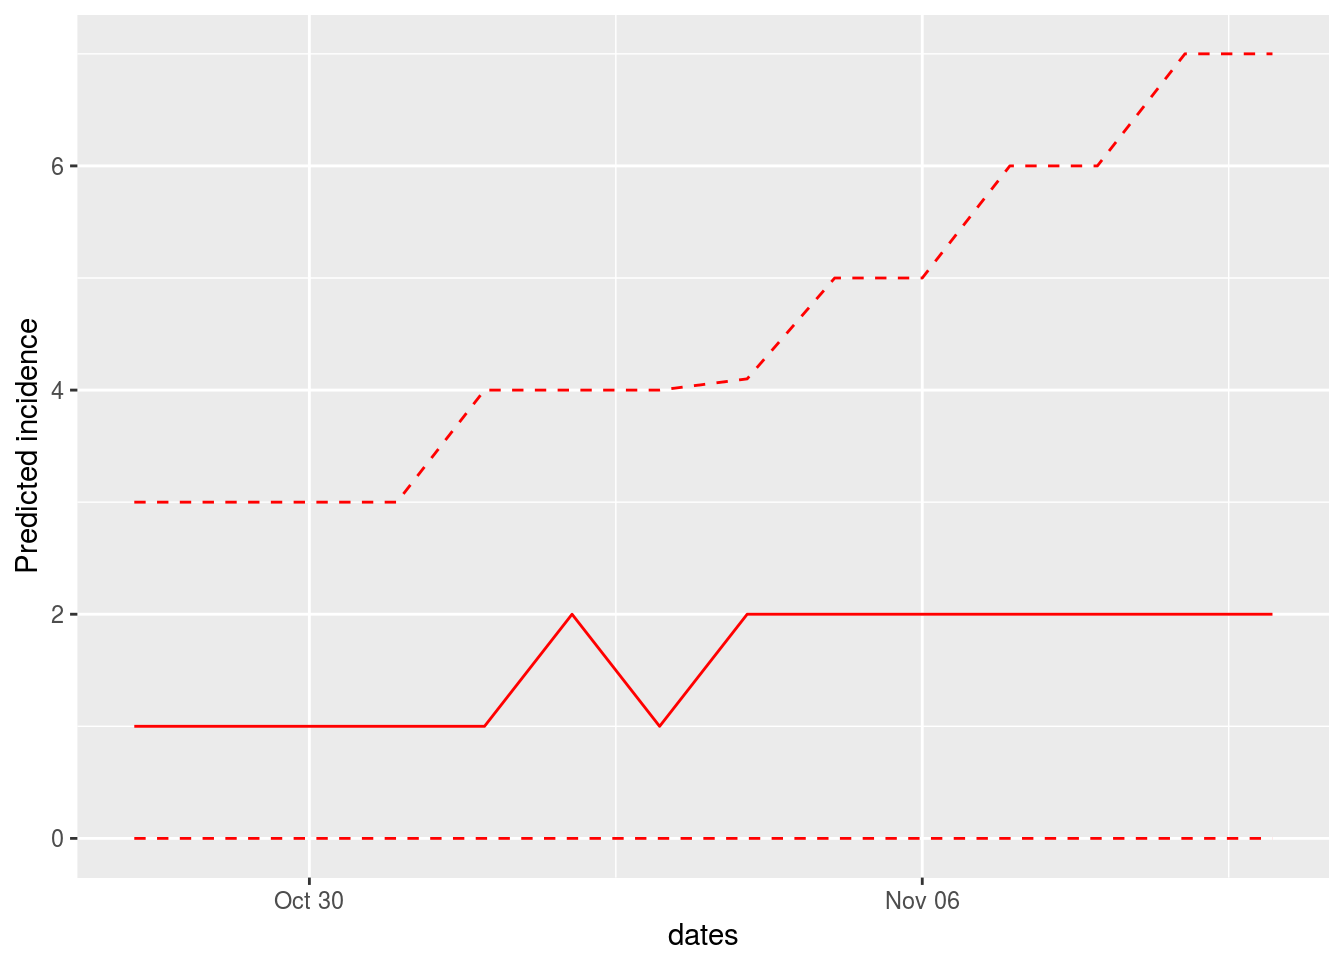
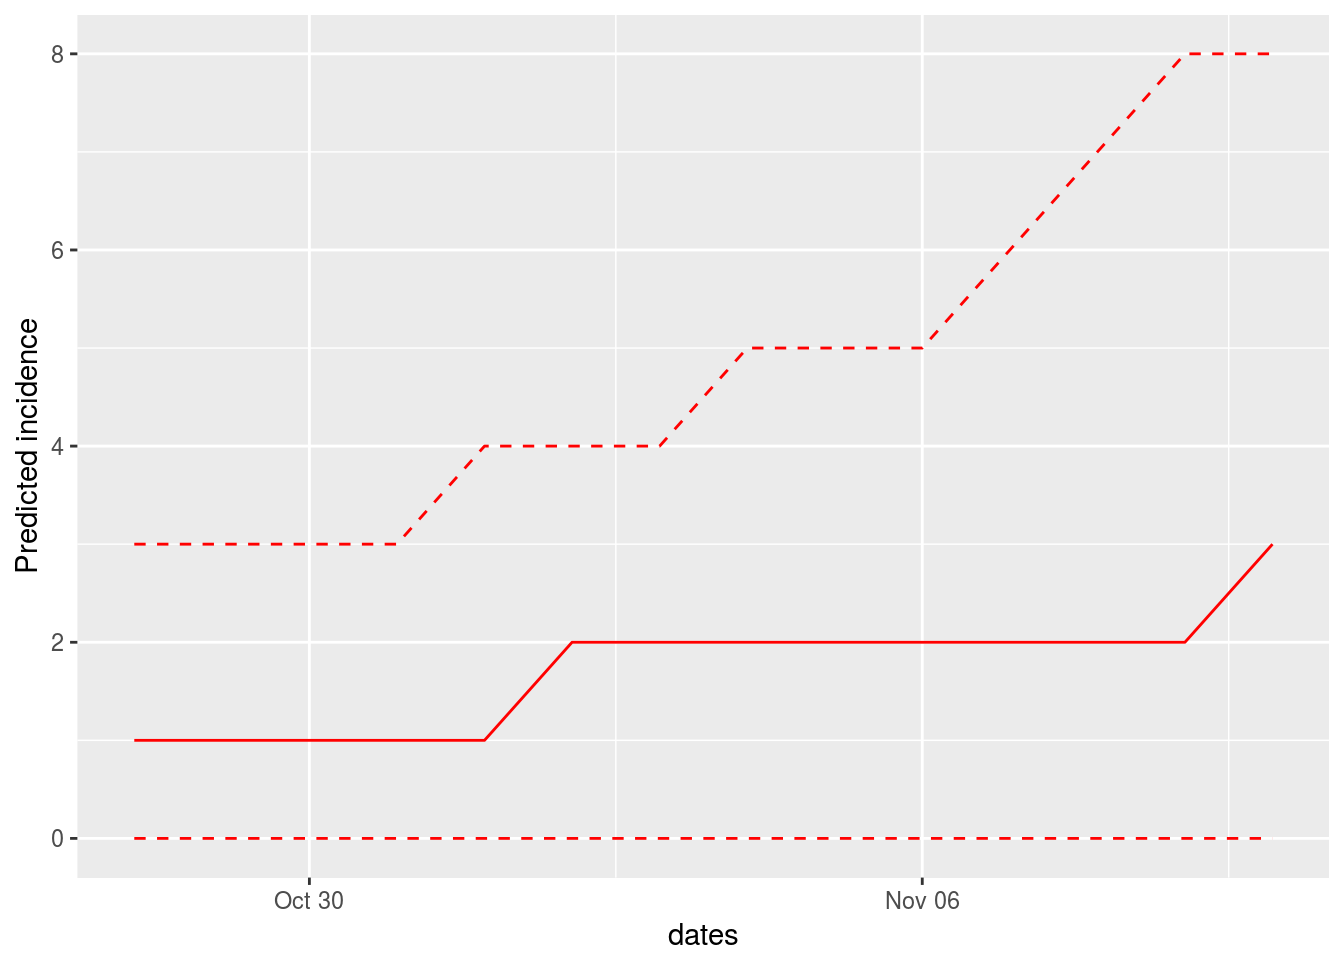
putting new practical first

diff --git a/categories/practicals/index.html b/categories/practicals/index.html
@@ -147,22 +147,20 @@
       <div class="row">
         <div class="col-md-12">
           <div class="row content-date">
-            April 09
+            April 15
           </div>
           <div class="row content-title">
-            <h2> <a href="https://reconlearn.netlify.com/post/simulated-evd-early/ "> Ebola simulation part 1: early outbreak assessment </a> </h2>
+            <h2> <a href="https://reconlearn.netlify.com/post/practical-outbreakend/ "> Is this outbreak over? </a> </h2>
           </div>
           <div class="row content-summary">
-            <p> This practical simulates the early assessment and reconstruction of an Ebola Virus Disease (EVD) outbreak. It introduces various aspects of analysis of the early stage of an outbreak, including contact tracing data, epicurves, growth rate estimation from log-linear models, and more refined estimates of transmissibility. A follow-up practical will provide an introduction to transmission chain reconstruction using outbreaker2.
-
-A novel EVD outbreak in Ankh, Republic of Morporkia A new EVD outbreak has been notified in the small city of Ankh, located in the Northern, rural district of the Republic of Morporkia. </p>
-            <a class="more-link" href="https://reconlearn.netlify.com/post/simulated-evd-early/ "> READ THE POST </a>
+            <p> Motivation At which time point during an outbreak of a person-to-person transmitted disease can one declare the outbreak as having ended? Answering this question can be important in order to calm the population, re-attract tourists, stop export bans or reduce alertness status. The current WHO method for answering the above question is as follows: a period of two times the longest possible incubation time needs to pass without observing additional cases, before the outbreak can be declared as being over. </p>
+            <a class="more-link" href="https://reconlearn.netlify.com/post/practical-outbreakend/ "> READ THE POST </a>
           </div>
         </div>
       </div>
     </div>
     
-    <div class="col-md-6 content-image" style="background-image: url(/img/highres/ebola.jpg)">
+    <div class="col-md-6 content-image" style="background-image: url(/img/highres/theendisnear.png)">
     </div>
     
   </div>
@@ -171,7 +169,7 @@ A novel EVD outbreak in Ankh, Republic of Morporkia A new EVD outbreak has been 
 
   <div class="row content">
     
-    <div class="col-md-6 content-image" style="background-image: url(/img/highres/theendisnear.png)">
+    <div class="col-md-6 content-image" style="background-image: url(/img/highres/ebola.jpg)">
     </div>
     
 
@@ -181,14 +179,16 @@ A novel EVD outbreak in Ankh, Republic of Morporkia A new EVD outbreak has been 
         <div class="row">
           <div class="col-md-12">
             <div class="content-date">
-              March 22
+              April 09
             </div>
             <div class="content-title">
-              <h2> <a href="https://reconlearn.netlify.com/post/practical-outbreakend/ "> Is this outbreak over? </a> </h2>
+              <h2> <a href="https://reconlearn.netlify.com/post/simulated-evd-early/ "> Ebola simulation part 1: early outbreak assessment </a> </h2>
             </div>
             <div class="content-summary">
-              <p> Motivation At which time point during an outbreak of a person-to-person transmitted disease can one declare the outbreak as having ended? Answering this question can be important in order to calm the population, re-attract tourists, stop export bans or reduce alertness status. The current WHO method for answering the above question is as follows: a period of two times the longest possible incubation time needs to pass without observing additional cases, before the outbreak can be declared as being over. </p>
-              <a class="more-link" href="https://reconlearn.netlify.com/post/practical-outbreakend/ "> READ THE POST </a>
+              <p> This practical simulates the early assessment and reconstruction of an Ebola Virus Disease (EVD) outbreak. It introduces various aspects of analysis of the early stage of an outbreak, including contact tracing data, epicurves, growth rate estimation from log-linear models, and more refined estimates of transmissibility. A follow-up practical will provide an introduction to transmission chain reconstruction using outbreaker2.
+
+A novel EVD outbreak in Ankh, Republic of Morporkia A new EVD outbreak has been notified in the small city of Ankh, located in the Northern, rural district of the Republic of Morporkia. </p>
+              <a class="more-link" href="https://reconlearn.netlify.com/post/simulated-evd-early/ "> READ THE POST </a>
             </div>
           </div>
         </div>

diff --git a/tags/epicurve/index.html b/tags/epicurve/index.html
@@ -140,22 +140,20 @@
       <div class="row">
         <div class="col-md-12">
           <div class="row content-date">
-            April 09
+            April 15
           </div>
           <div class="row content-title">
-            <h2> <a href="https://reconlearn.netlify.com/post/simulated-evd-early/ "> Ebola simulation part 1: early outbreak assessment </a> </h2>
+            <h2> <a href="https://reconlearn.netlify.com/post/practical-outbreakend/ "> Is this outbreak over? </a> </h2>
           </div>
           <div class="row content-summary">
-            <p> This practical simulates the early assessment and reconstruction of an Ebola Virus Disease (EVD) outbreak. It introduces various aspects of analysis of the early stage of an outbreak, including contact tracing data, epicurves, growth rate estimation from log-linear models, and more refined estimates of transmissibility. A follow-up practical will provide an introduction to transmission chain reconstruction using outbreaker2.
-
-A novel EVD outbreak in Ankh, Republic of Morporkia A new EVD outbreak has been notified in the small city of Ankh, located in the Northern, rural district of the Republic of Morporkia. </p>
-            <a class="more-link" href="https://reconlearn.netlify.com/post/simulated-evd-early/ "> READ THE POST </a>
+            <p> Motivation At which time point during an outbreak of a person-to-person transmitted disease can one declare the outbreak as having ended? Answering this question can be important in order to calm the population, re-attract tourists, stop export bans or reduce alertness status. The current WHO method for answering the above question is as follows: a period of two times the longest possible incubation time needs to pass without observing additional cases, before the outbreak can be declared as being over. </p>
+            <a class="more-link" href="https://reconlearn.netlify.com/post/practical-outbreakend/ "> READ THE POST </a>
           </div>
         </div>
       </div>
     </div>
     
-    <div class="col-md-6 content-image" style="background-image: url(/img/highres/ebola.jpg)">
+    <div class="col-md-6 content-image" style="background-image: url(/img/highres/theendisnear.png)">
     </div>
     
   </div>
@@ -164,7 +162,7 @@ A novel EVD outbreak in Ankh, Republic of Morporkia A new EVD outbreak has been 
 
   <div class="row content">
     
-    <div class="col-md-6 content-image" style="background-image: url(/img/highres/theendisnear.png)">
+    <div class="col-md-6 content-image" style="background-image: url(/img/highres/ebola.jpg)">
     </div>
     
 
@@ -174,14 +172,16 @@ A novel EVD outbreak in Ankh, Republic of Morporkia A new EVD outbreak has been 
         <div class="row">
           <div class="col-md-12">
             <div class="content-date">
-              March 22
+              April 09
             </div>
             <div class="content-title">
-              <h2> <a href="https://reconlearn.netlify.com/post/practical-outbreakend/ "> Is this outbreak over? </a> </h2>
+              <h2> <a href="https://reconlearn.netlify.com/post/simulated-evd-early/ "> Ebola simulation part 1: early outbreak assessment </a> </h2>
             </div>
             <div class="content-summary">
-              <p> Motivation At which time point during an outbreak of a person-to-person transmitted disease can one declare the outbreak as having ended? Answering this question can be important in order to calm the population, re-attract tourists, stop export bans or reduce alertness status. The current WHO method for answering the above question is as follows: a period of two times the longest possible incubation time needs to pass without observing additional cases, before the outbreak can be declared as being over. </p>
-              <a class="more-link" href="https://reconlearn.netlify.com/post/practical-outbreakend/ "> READ THE POST </a>
+              <p> This practical simulates the early assessment and reconstruction of an Ebola Virus Disease (EVD) outbreak. It introduces various aspects of analysis of the early stage of an outbreak, including contact tracing data, epicurves, growth rate estimation from log-linear models, and more refined estimates of transmissibility. A follow-up practical will provide an introduction to transmission chain reconstruction using outbreaker2.
+
+A novel EVD outbreak in Ankh, Republic of Morporkia A new EVD outbreak has been notified in the small city of Ankh, located in the Northern, rural district of the Republic of Morporkia. </p>
+              <a class="more-link" href="https://reconlearn.netlify.com/post/simulated-evd-early/ "> READ THE POST </a>
             </div>
           </div>
         </div>

diff --git a/post/simulated-evd-early/index.html b/post/simulated-evd-early/index.html
@@ -606,10 +606,10 @@ project(i, R = R$R_ml, si = si, n_sim = 5, n_days = 10, R_fix_within = TRUE)
 ## 
 ##  // first rows/columns:
 ##            [,1] [,2] [,3] [,4] [,5]
-## 2017-10-28    2    3    1    3    1
-## 2017-10-29    3    0    1    0    1
-## 2017-10-30    2    2    2    3    0
-## 2017-10-31    1    4    2    0    0
+## 2017-10-28    3    1    0    2    0
+## 2017-10-29    1    1    0    1    0
+## 2017-10-30    0    1    1    0    0
+## 2017-10-31    1    1    5    1    0
 ##  .
 ##  .
 ##  .
@@ -623,33 +623,33 @@ project(i, R = R$R_ml, si = si, n_sim = 5, n_days = 10, R_fix_within = TRUE)
 <p>Interpret the following summary:</p>
 <pre class="r"><code>apply(proj, 1, summary)
 ##         2017-10-28 2017-10-29 2017-10-30 2017-10-31 2017-11-01 2017-11-02
-## Min.         0.000       0.00      0.000      0.000      0.000      0.000
-## 1st Qu.      0.000       0.00      1.000      0.000      0.000      1.000
-## Median       1.000       1.00      1.000      1.000      1.000      2.000
-## Mean         1.416       1.41      1.468      1.553      1.597      1.822
-## 3rd Qu.      2.000       2.00      2.000      2.000      2.000      3.000
-## Max.         7.000       6.00     10.000     12.000      7.000     14.000
+## Min.         0.000      0.000      0.000      0.000      0.000      0.000
+## 1st Qu.      1.000      0.000      1.000      1.000      1.000      1.000
+## Median       1.000      1.000      1.000      1.000      1.000      2.000
+## Mean         1.476      1.445      1.497      1.543      1.629      1.833
+## 3rd Qu.      2.000      2.000      2.000      2.000      2.000      3.000
+## Max.         8.000      6.000      7.000      7.000     10.000     11.000
 ##         2017-11-03 2017-11-04 2017-11-05 2017-11-06 2017-11-07 2017-11-08
-## Min.         0.000       0.00      0.000       0.00      0.000      0.000
-## 1st Qu.      1.000       1.00      1.000       1.00      1.000      1.000
-## Median       1.000       2.00      2.000       2.00      2.000      2.000
-## Mean         1.817       2.12      2.175       2.43      2.709      2.836
-## 3rd Qu.      3.000       3.00      3.000       3.00      4.000      4.000
-## Max.         9.000      12.00     19.000      16.00     29.000     21.000
+## Min.         0.000      0.000      0.000      0.000      0.000      0.000
+## 1st Qu.      1.000      1.000      1.000      1.000      1.000      1.000
+## Median       2.000      2.000      2.000      2.000      2.000      2.000
+## Mean         1.964      2.118      2.353      2.549      2.822      3.071
+## 3rd Qu.      3.000      3.000      3.000      4.000      4.000      4.000
+## Max.        11.000     13.000     15.000     15.000     23.000     29.000
 ##         2017-11-09 2017-11-10
 ## Min.         0.000      0.000
 ## 1st Qu.      1.000      1.000
-## Median       2.000      2.000
-## Mean         3.124      3.454
-## 3rd Qu.      4.000      5.000
-## Max.        35.000     41.000
+## Median       2.000      3.000
+## Mean         3.342      3.829
+## 3rd Qu.      5.000      5.000
+## Max.        32.000     26.000
 apply(proj, 1, function(x) mean(x&gt;0))
 ## 2017-10-28 2017-10-29 2017-10-30 2017-10-31 2017-11-01 2017-11-02 
-##      0.742      0.736      0.757      0.742      0.746      0.784 
+##      0.755      0.726      0.755      0.755      0.757      0.781 
 ## 2017-11-03 2017-11-04 2017-11-05 2017-11-06 2017-11-07 2017-11-08 
-##      0.782      0.820      0.832      0.839      0.853      0.850 
+##      0.816      0.804      0.817      0.841      0.828      0.861 
 ## 2017-11-09 2017-11-10 
-##      0.858      0.872</code></pre>
+##      0.863      0.876</code></pre>
 <p><font class="question">According to these results, what are the chances that more cases will appear in the near future?</font><font class="question">Is this outbreak being brought under control?</font> <font class="question">Would you recommend scaling up / down the response?</font></p>
 </div>
 <div id="follow-up" class="section level2">

diff --git a/index.html b/index.html
@@ -144,6 +144,29 @@
 
 <div class="row content">
   
+  <div class="col-sm-6 content-image" style="background-image: url(img/highres/theendisnear.png)">
+  </div>
+  <div class="col-sm-6 content-excerpt">
+  
+    <div class="row">
+      <div class="col-md-12">
+        <div class="row content-date">
+          April 15
+        </div>
+        <div class="row content-title">
+          <h2> <a href="https://reconlearn.netlify.com/post/practical-outbreakend/ "> Is this outbreak over? </a> </h2>
+        </div>
+        <div class="row content-summary">
+          Motivation At which time point during an outbreak of a person-to-person transmitted disease can one declare the outbreak as having ended? Answering this question can be important in order to calm the population, re-attract tourists, stop export bans or reduce alertness status. The current WHO method for answering the above question is as follows: a period of two times the longest possible incubation time needs to pass without observing additional cases, before the outbreak can be declared as being over.
+          <a class="more-link" href="https://reconlearn.netlify.com/post/practical-outbreakend/ ">Read the post</a>
+        </div>
+      </div>
+    </div>
+  </div>
+</div>
+
+<div class="row content">
+  
   <div class="col-sm-6 content-image" style="background-image: url(img/highres/ebola.jpg)">
   </div>
   <div class="col-sm-6 content-excerpt">
@@ -161,29 +184,6 @@
 
 A novel EVD outbreak in Ankh, Republic of Morporkia A new EVD outbreak has been notified in the small city of Ankh, located in the Northern, rural district of the Republic of Morporkia.
           <a class="more-link" href="https://reconlearn.netlify.com/post/simulated-evd-early/ ">Read the post</a>
-        </div>
-      </div>
-    </div>
-  </div>
-</div>
-
-<div class="row content">
-  
-  <div class="col-sm-6 content-image" style="background-image: url(img/highres/theendisnear.png)">
-  </div>
-  <div class="col-sm-6 content-excerpt">
-  
-    <div class="row">
-      <div class="col-md-12">
-        <div class="row content-date">
-          March 22
-        </div>
-        <div class="row content-title">
-          <h2> <a href="https://reconlearn.netlify.com/post/practical-outbreakend/ "> Is this outbreak over? </a> </h2>
-        </div>
-        <div class="row content-summary">
-          Motivation At which time point during an outbreak of a person-to-person transmitted disease can one declare the outbreak as having ended? Answering this question can be important in order to calm the population, re-attract tourists, stop export bans or reduce alertness status. The current WHO method for answering the above question is as follows: a period of two times the longest possible incubation time needs to pass without observing additional cases, before the outbreak can be declared as being over.
-          <a class="more-link" href="https://reconlearn.netlify.com/post/practical-outbreakend/ ">Read the post</a>
         </div>
       </div>
     </div>

diff --git a/tags/outbreak-end/index.html b/tags/outbreak-end/index.html
@@ -140,7 +140,7 @@
       <div class="row">
         <div class="col-md-12">
           <div class="row content-date">
-            March 22
+            April 15
           </div>
           <div class="row content-title">
             <h2> <a href="https://reconlearn.netlify.com/post/practical-outbreakend/ "> Is this outbreak over? </a> </h2>

diff --git a/tags/outbreak/index.html b/tags/outbreak/index.html
@@ -140,7 +140,7 @@
       <div class="row">
         <div class="col-md-12">
           <div class="row content-date">
-            March 22
+            April 15
           </div>
           <div class="row content-title">
             <h2> <a href="https://reconlearn.netlify.com/post/practical-outbreakend/ "> Is this outbreak over? </a> </h2>

diff --git a/post/practical-outbreakend/index.html b/post/practical-outbreakend/index.html
@@ -122,7 +122,7 @@
   <div class="row">
     <div class="col-md-12">
       <div class="entry-meta">
-        March 22
+        April 15
       </div>
     </div>
   </div>
